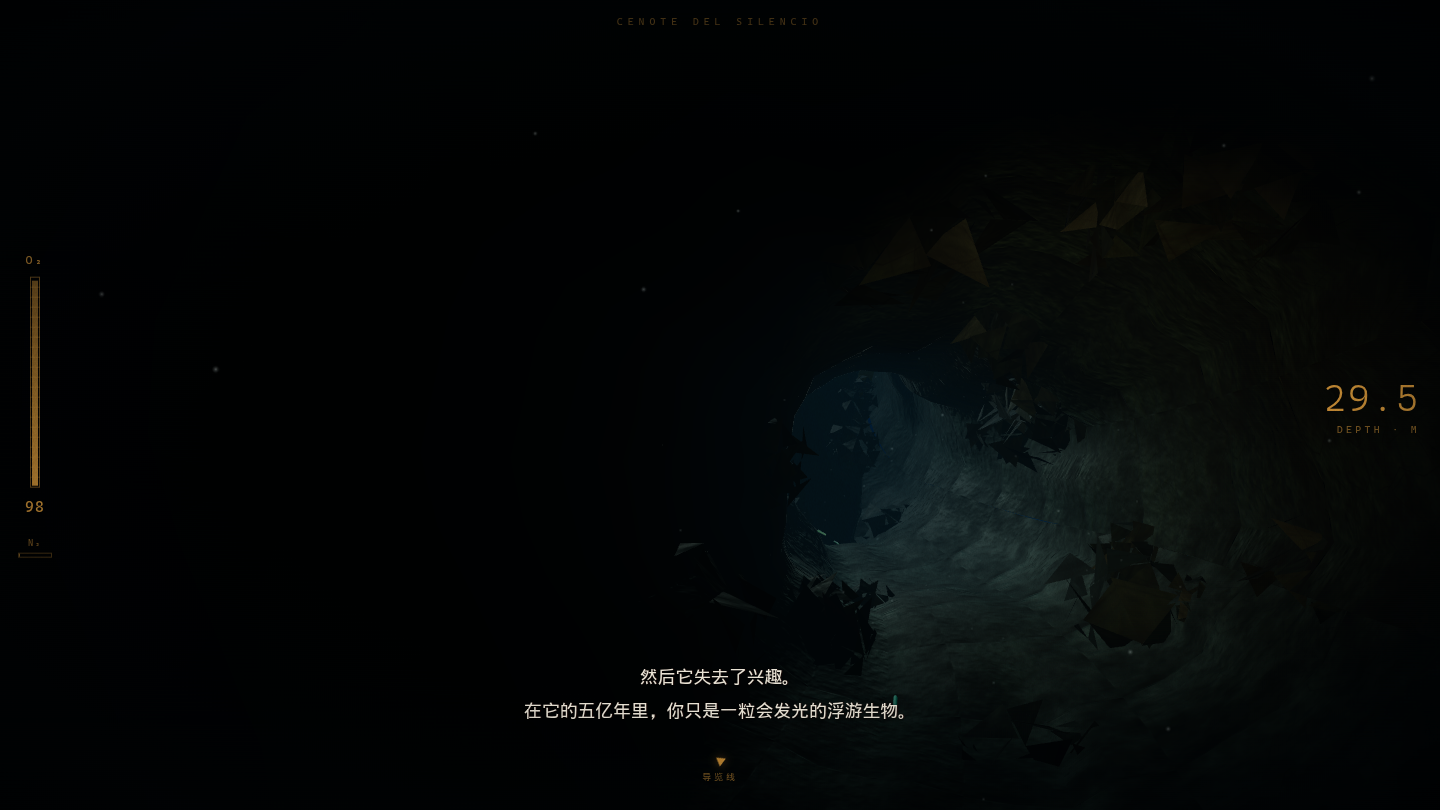
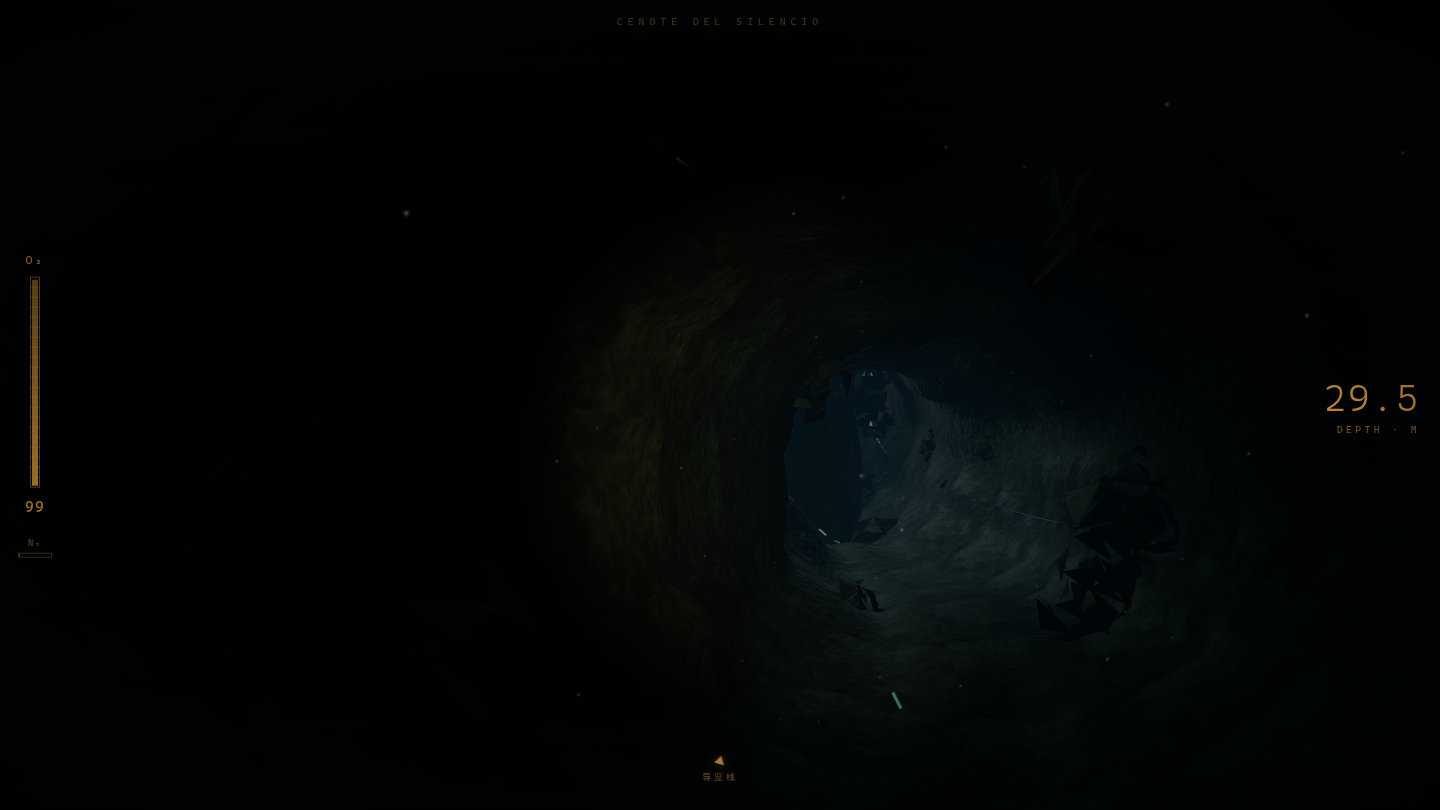
test+shots(Loop6): 回归全绿——E1/E2结局等待预算提至360s适配无头软渲染;新增buddyWarp调试钩子与buddy-escort护送镜头;shaft仰视英雄镜头重新构图(对准阳光Snell窗);潜伴服装压暗为黑色湿衣+干手套(修复近距过曝);全17点位+三结局+五模拟截图刷新

diff --git a/src/game/Buddy.ts b/src/game/Buddy.ts
@@ -51,8 +51,8 @@ export class Buddy {
 
   // ---------- 模型 ----------
   private buildModel(): void {
-    const suit = new THREE.MeshStandardMaterial({ color: 0x1a2226, roughness: 0.82 });
-    const skin = new THREE.MeshStandardMaterial({ color: 0x8a6a52, roughness: 0.7 });
+    const suit = new THREE.MeshStandardMaterial({ color: 0x10151a, roughness: 0.92 });
+    const skin = new THREE.MeshStandardMaterial({ color: 0x23282c, roughness: 0.85 }); // 干式手套
     const accent = new THREE.MeshStandardMaterial({ color: ACCENT, emissive: 0x3a2e08, roughness: 0.6 });
     const steel = new THREE.MeshStandardMaterial({ color: 0xb9bfc4, metalness: 0.8, roughness: 0.32 });
     this.visor = new THREE.MeshStandardMaterial({

diff --git a/src/game/Game.ts b/src/game/Game.ts
@@ -252,6 +252,9 @@ export class Game {
         gesturing: this.buddy.gesturing,
       }),
       buddyGesture: (k: BuddyGesture) => this.buddy.gesture(k),
+      buddyWarp: () => {
+        this.buddy.spawn(this.player.position.clone().add(new THREE.Vector3(-1.4, 0.6, 1.4)));
+      },
       relics: () => `${this.story.relicsSeen}/${this.story.relicTotal}`,
       sim: (id: number) => this.startSim(id),
       simState: () => this.sim.debugState(),
